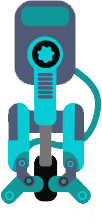
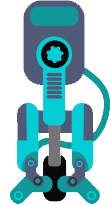
剩下夾小嬰兒要做

diff --git a/20200414(jquery)/homework/homework.html b/20200414(jquery)/homework/homework.html
@@ -8,14 +8,16 @@
     <style>
         body {
             margin: 0;
-            background-color: deepskyblue;
+            background-image: url(./images/bg.jpg);
+            background-size: cover;
+            background-repeat: no-repeat;
         }
 
         #box {
             width: 1200px;
-            height: 800px;
+            height: 600px;
             position: relative;
-            background-color: black;
+            background-color: rgba(0, 0, 0, 0.8);
             margin: auto;
             margin-top: 50px;
         }
@@ -42,42 +44,97 @@
         }
 
         #catcher {
-            width: 200px;
-            height: 300px;
+            width: 100px;
+            height: 150px;
             position: absolute;
-            left: 10px;
+            left: 50px;
             background-image: url(./images/machine.png);
-            background-size: auto 240px;
+            background-size: auto 120px;
             background-repeat: no-repeat;
             background-position: center top;
         }
 
         .hook {
-            width: 100px;
-            height: 90px;
+            width: 50px;
+            height: 100px;
             position: absolute;
-            top: 210px;
-
+            top: 110px;
         }
 
         #left-hook {
             left: 0;
             background-image: url(./images/machine-left.png);
             background-size: auto 90px;
-            background-position: 35px 8px;
             background-repeat: no-repeat;
-            transform-origin: 55px 2px;
+            background-position: 10px 3px;
+            transform-origin: center top;
             transform: rotate(45deg);
+        }
+
+        .leftclip {
+            animation: leftclip 1s linear forwards;
+        }
+
+        .leftclip-reverse {
+            animation: leftclip-reverse 500ms linear forwards;
+        }
+
+        @keyframes leftclip {
+            from {
+                transform: rotate(45deg);
+            }
+
+            to {
+                transform: rotate(0deg);
+            }
+        }
+
+        @keyframes leftclip-reverse {
+            from {
+                transform: rotate(0deg);
+            }
+
+            to {
+                transform: rotate(45deg);
+            }
         }
 
         #right-hook {
             right: 0;
             background-image: url(./images/machine-right.png);
             background-size: auto 90px;
-            background-position: 30px 8px;
             background-repeat: no-repeat;
-            transform-origin: 34px 2px;
+            background-position: 16px 3px;
+            transform-origin: center top;
             transform: rotate(-45deg);
+        }
+
+        .rightclip {
+            animation: rightclip 1s linear forwards;
+        }
+
+        .rightclip-reverse {
+            animation: rightclip-reverse 500ms linear forwards;
+        }
+
+        @keyframes rightclip {
+            from {
+                transform: rotate(-45deg);
+            }
+
+            to {
+                transform: rotate(0deg);
+            }
+        }
+
+        @keyframes rightclip-reverse {
+            from {
+                transform: rotate(0deg);
+            }
+
+            to {
+                transform: rotate(-45deg);
+            }
         }
 
         .btn {
@@ -123,7 +180,7 @@
         let ingame = false;
         // 向右邊
         const moveRight = () => {
-            if ($("#catcher").css("left") == "1000px") {
+            if ($("#catcher").css("left") == "1050px") {
                 $("#catcher").stop(true)
             }
             else {
@@ -135,20 +192,20 @@
             }
         }
         $("#btn-right").mousedown(function () {
+            $("#stick").css("transform", "rotate(45deg)")
             if ($("#catcher").css("top") == "0px" && ingame == false) {
-                $("#stick").css("transform", "rotate(45deg)")
                 moveRight()
             }
         })
         $("#btn-right").mouseup(function () {
+            $("#stick").css("transform", "rotate(0deg)")
             if ($("#catcher").css("top") == "0px" && ingame == false) {
                 $("#catcher").stop(true)
-                $("#stick").css("transform", "rotate(0deg)")
             }
         })
         // 向左邊
         const moveLeft = () => {
-            if ($("#catcher").css("left") == "10px") {
+            if ($("#catcher").css("left") == "50px") {
                 $("#catcher").stop(true)
             }
             else {
@@ -160,51 +217,70 @@
             }
         }
         $("#btn-left").mousedown(function () {
+            $("#stick").css("transform", "rotate(-45deg)")
             if ($("#catcher").css("top") == "0px" && ingame == false) {
-                $("#stick").css("transform", "rotate(-45deg)")
                 moveLeft()
             }
         })
         $("#btn-left").mouseup(function () {
+            $("#stick").css("transform", "rotate(0deg)")
             if ($("#catcher").css("top") == "0px" && ingame == false) {
                 $("#catcher").stop(true)
-                $("#stick").css("transform", "rotate(0deg)")
             }
         })
         // 夾取
-        let moves = false;
+        let incatch = true;
         $("#btn-catch").click(function () {
-            ingame = true
+            ingame = true;
             if (($("#catcher").css("top") == "0px")) {
                 $("#catcher").animate({
-                    top: `500px`
+                    top: `400px`
                 }, 3000, "linear", function () {
+                    $("#left-hook").addClass("leftclip")
+                    $("#left-hook").removeClass("leftclip-reverse")
+                    $("#right-hook").addClass("rightclip")
+                    $("#right-hook").removeClass("rightclip-reverse")
+                    setTimeout(() => {
+                        $("#catcher").animate({
+                            top: `0px`
+                        }, 3000, "linear", function () {
+                            $("#catcher").animate({
+                                left: `50px`
+                            }, 1000, "linear", function () {
+                                $("#left-hook").addClass("leftclip-reverse")
+                                $("#left-hook").removeClass("leftclip")
+                                $("#right-hook").addClass("rightclip-reverse")
+                                $("#right-hook").removeClass("rightclip")
+                                ingame = false
+                            })
+                        })
+                    }, 1000)
+                })
+            }
+            else if (($("#catcher").css("top") !== "0px") && incatch == true) {
+                incatch = false
+                $("#catcher").stop(true)
+                $("#left-hook").addClass("leftclip")
+                $("#left-hook").removeClass("leftclip-reverse")
+                $("#right-hook").addClass("rightclip")
+                $("#right-hook").removeClass("rightclip-reverse")
+                setTimeout(() => {
                     $("#catcher").animate({
                         top: `0px`
                     }, 3000, "linear", function () {
                         $("#catcher").animate({
-                            left: `10px`
-                        }, 3000, "linear", function () {
+                            left: `50px`
+                        }, 2000, "linear", function () {
+                            $("#left-hook").addClass("leftclip-reverse")
+                            $("#left-hook").removeClass("leftclip")
+                            $("#right-hook").addClass("rightclip-reverse")
+                            $("#right-hook").removeClass("rightclip")
                             ingame = false
+                            incatch = true
                         })
-
                     })
-                })
+                }, 1000)
             }
-            else if (($("#catcher").css("top") !== "0px") && moves == false) {
-                $("#catcher").stop(true)
-                $("#catcher").animate({
-                    top: `0px`
-                }, 3000, "linear", function () {
-                    $("#catcher").animate({
-                        left: `10px`
-                    }, 2000, "linear", function () {
-                        ingame = false
-                    })
-                })
-                moves = true
-            }
-            moves = false
         })
 
         $(window).keydown(function (event) {
